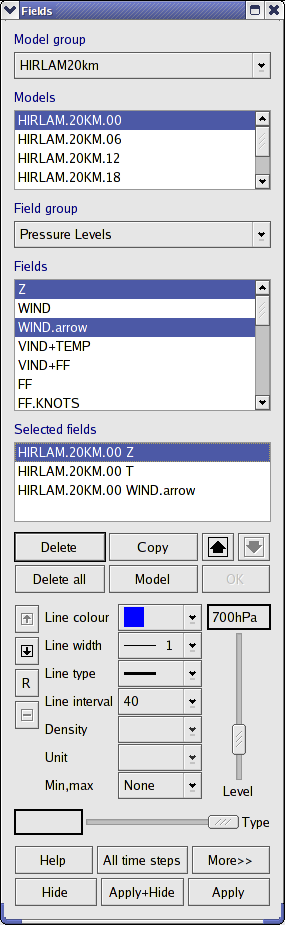
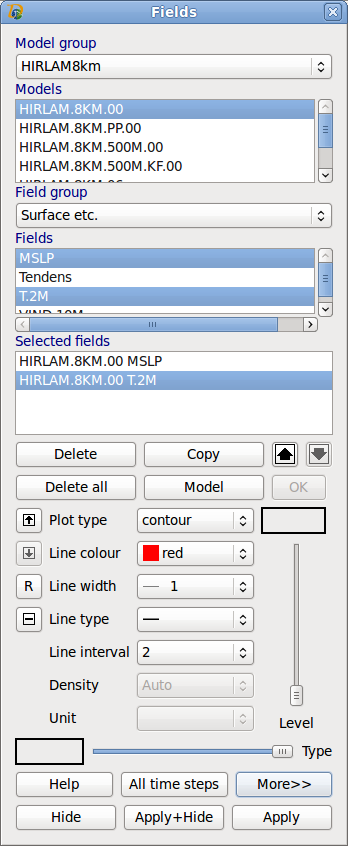
Documentation updated
git-svn-id: https://svn.met.no/diana/trunk@2505 0ccb8871-b436-41a3-ae7d-e3ac59973202

diff --git a/share/doc/diana/ug_fielddialogue.html b/share/doc/diana/ug_fielddialogue.html
@@ -37,7 +37,7 @@
 	      <b>Field group</b> - when a field group is chosen, the available fields 
 	    are shown.</li>
 	    <li>
-	      <b>Field</b> - when a field is chosen it will appear in "Selected fields".</li>
+	      <b>Field</b> - when a field is chosen, it will appear in "Selected fields".</li>
 	    <li>
 	      <b>Selected fields</b> - shows which fields have been chosen.&nbsp;<br><br>
 	      <img SRC="fieldbuttons1.png" ALT="Field buttons"></li>
@@ -93,6 +93,10 @@
       <li>
   The horizontal slider shows EPS cluster, member, or other type depending on the field group.</li>
       <li>
+  Plot type - change plot method (contour, value, vector, etc). Note
+  that some of the methods can only be used with 2- or 3-dimentional fields
+  (Wind, vewctor)
+      <li>
   Line colour - change colour of the contour lines for selected fields. If "off" is 
   chosen, no contour lines are shown.
       <li>
@@ -107,8 +111,6 @@
   Density - change density of wind/vectors for selected field.</li>
       <li>
   Unit - change unit (length) of wind-arrow/current/vector for selected field.</li>
-      <li>
-  Min, max - choose whether to show L/H or C/W for extreme points in selected field.&nbsp;</li>
       <li>
 	<b>All timesteps</b> is used to show all times when at least one of the two 
 	selected fields exist. Otherwise only times when all fields exist are 
@@ -137,10 +139,17 @@
 
 	      <td>
 	  <ul>
+	      <li>
+		Min, max - choose whether to show L/H, C/W or value for extreme points in selected field.&nbsp;</li>
 	    <li>
 	      Min, max size - size of marking (L/H, C/W).</li>
 	    <li>
 	      Min, max radius - search radius, will change the number of L/H, C/W shown.</li>
+	    <li>
+	    	Grid lines in selected resolution (1=all) shows lines along constant x 
+	    	and y axis.</li>
+	    <li>
+	    	Grid value - shows the grid values when zooming in.</li>
 	    <li>
 	    	Smooth lines - smoothes isolines by entering no. of extra points. Gives a 
 	    	nicer look, when a small field-area is displayed.</li>
@@ -149,9 +158,6 @@
 	    	wind-/vectorfields u and v are smoothed separately). No. of smoothing 
 	    	operations is selected. Method: "Low-bandpass filter", which removes 
 	    	short wavelengths ("noise").</li>
-	    <li>
-	    	Grid lines in selected resolution (1=all) shows lines along constant x 
-	    	and y axis.</li>
 	    <li>
 	    	Time offset is used to show fields with different times, the offset 
 	    	is given in hours relatively to "valid time" (negative=earlier, 
@@ -163,11 +169,12 @@
 	    	Undefined - marks undefined/missing values in fields, e.g. land point in 
 	    	wave model. Colour, line-thickness and -type can be selected.</li>
 	    <li>
+	    	Frame - plot a frame around the model</li>
+	    <li>
+	    	Zero-line - turn on/off the isoline with value=0</li>
+	    <li>
 	    	Numbers on isolines can be turned on/off, and the no.-size can be altered
 	    	(relative standard-size).</li>
-	    <li>
-	    	Zero-line can be deleted from certain fields (defined in the 
-	    	setup-file). E.g. trend</li>
 	    <li>
 	      Table - annotation table on the map.
 	    </li>
@@ -192,7 +199,8 @@
 	    	Alpha value - transparency for selected fields.
 	    </li>
 	    <li>
-	    	Base value - 
+	    	Base value - sets the start point of isolines and
+	    	palette. (Used to get isolines -3, -1, 1, 3)
 	    </li>
 	    <li>
 	    	Min value - contour lines with values under min value are not displayed.
@@ -203,6 +211,11 @@
 	    <li>
 	    	Extra contour lines - can be used e.g. to draw some contour lines with 
 	    	thicker lines or in other colours.
+	    </li>
+	    <li>
+	    	Three colours - First colour used for values &lt; basevalue,
+	    	second colour used for values = basevalue, third
+	    	colour used for values &gt; base value
 	    </li>
 	  </ul>
 	</td>
